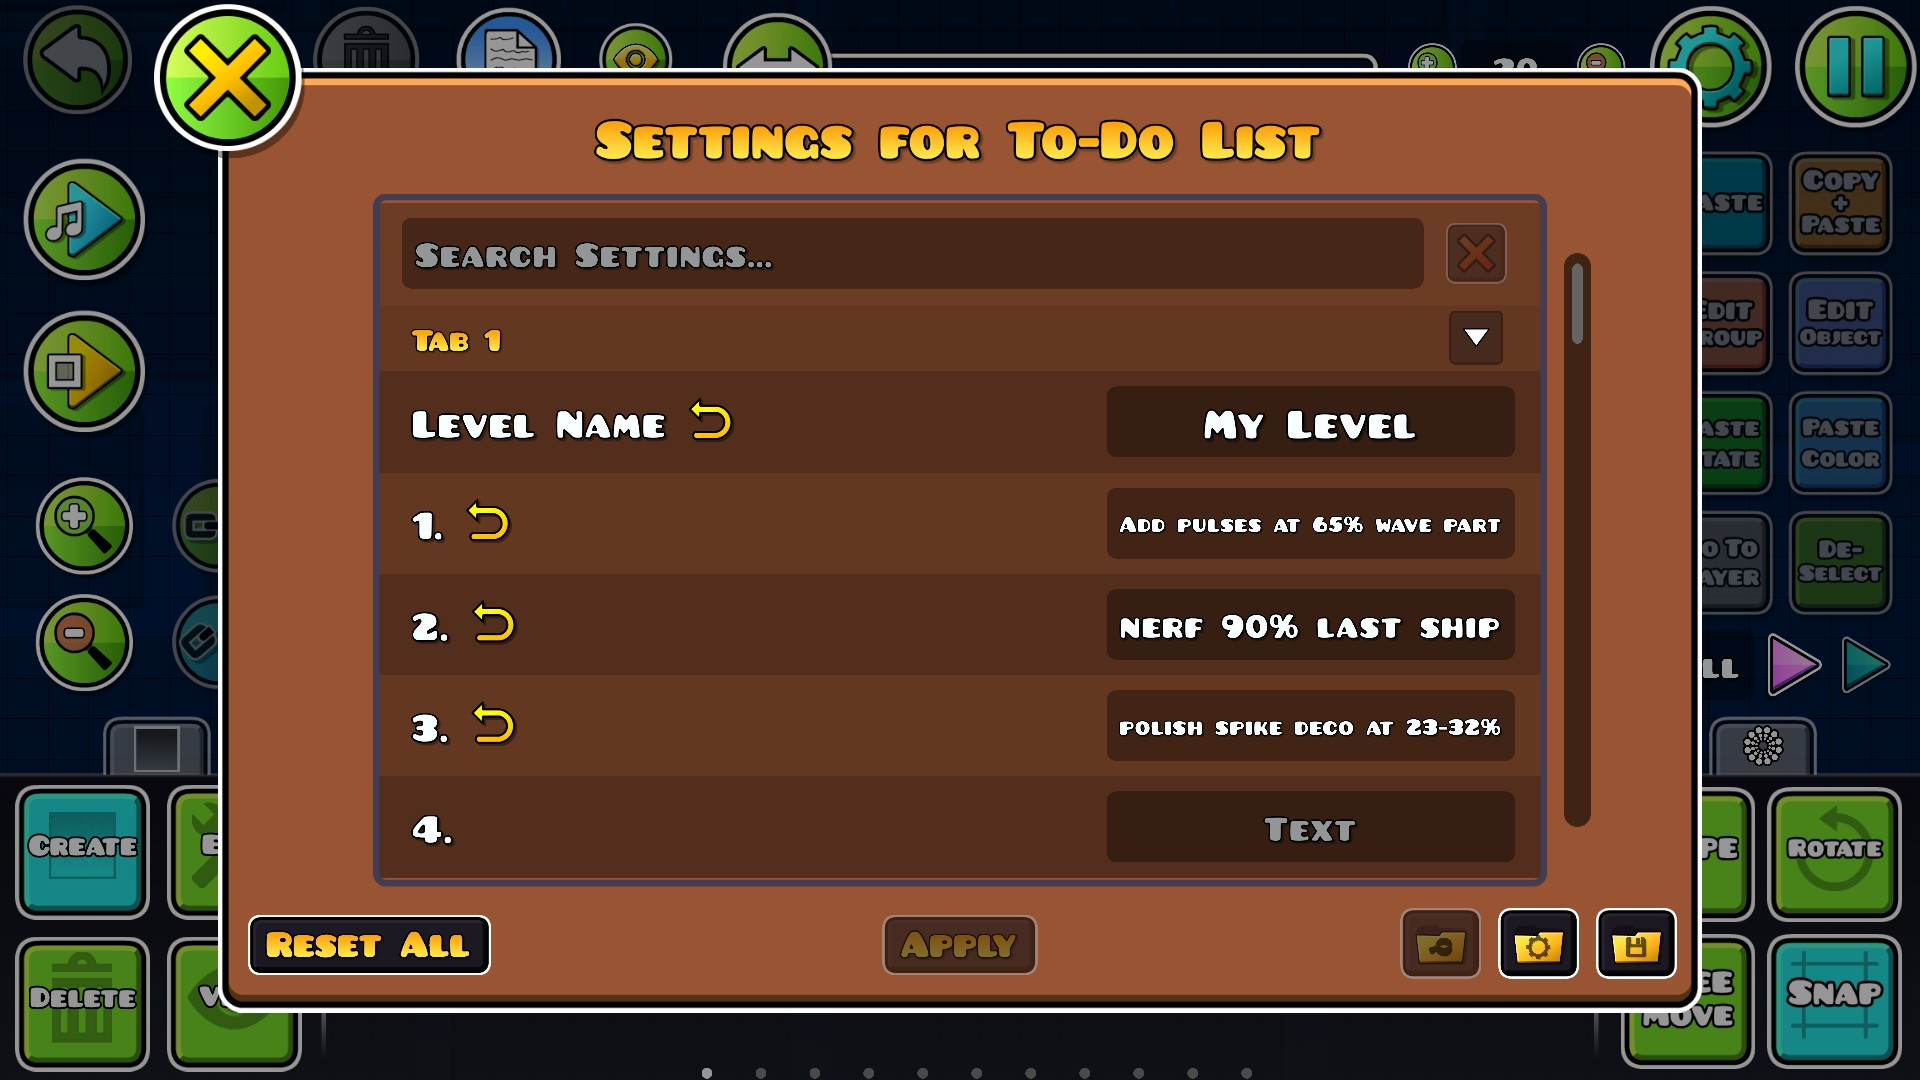
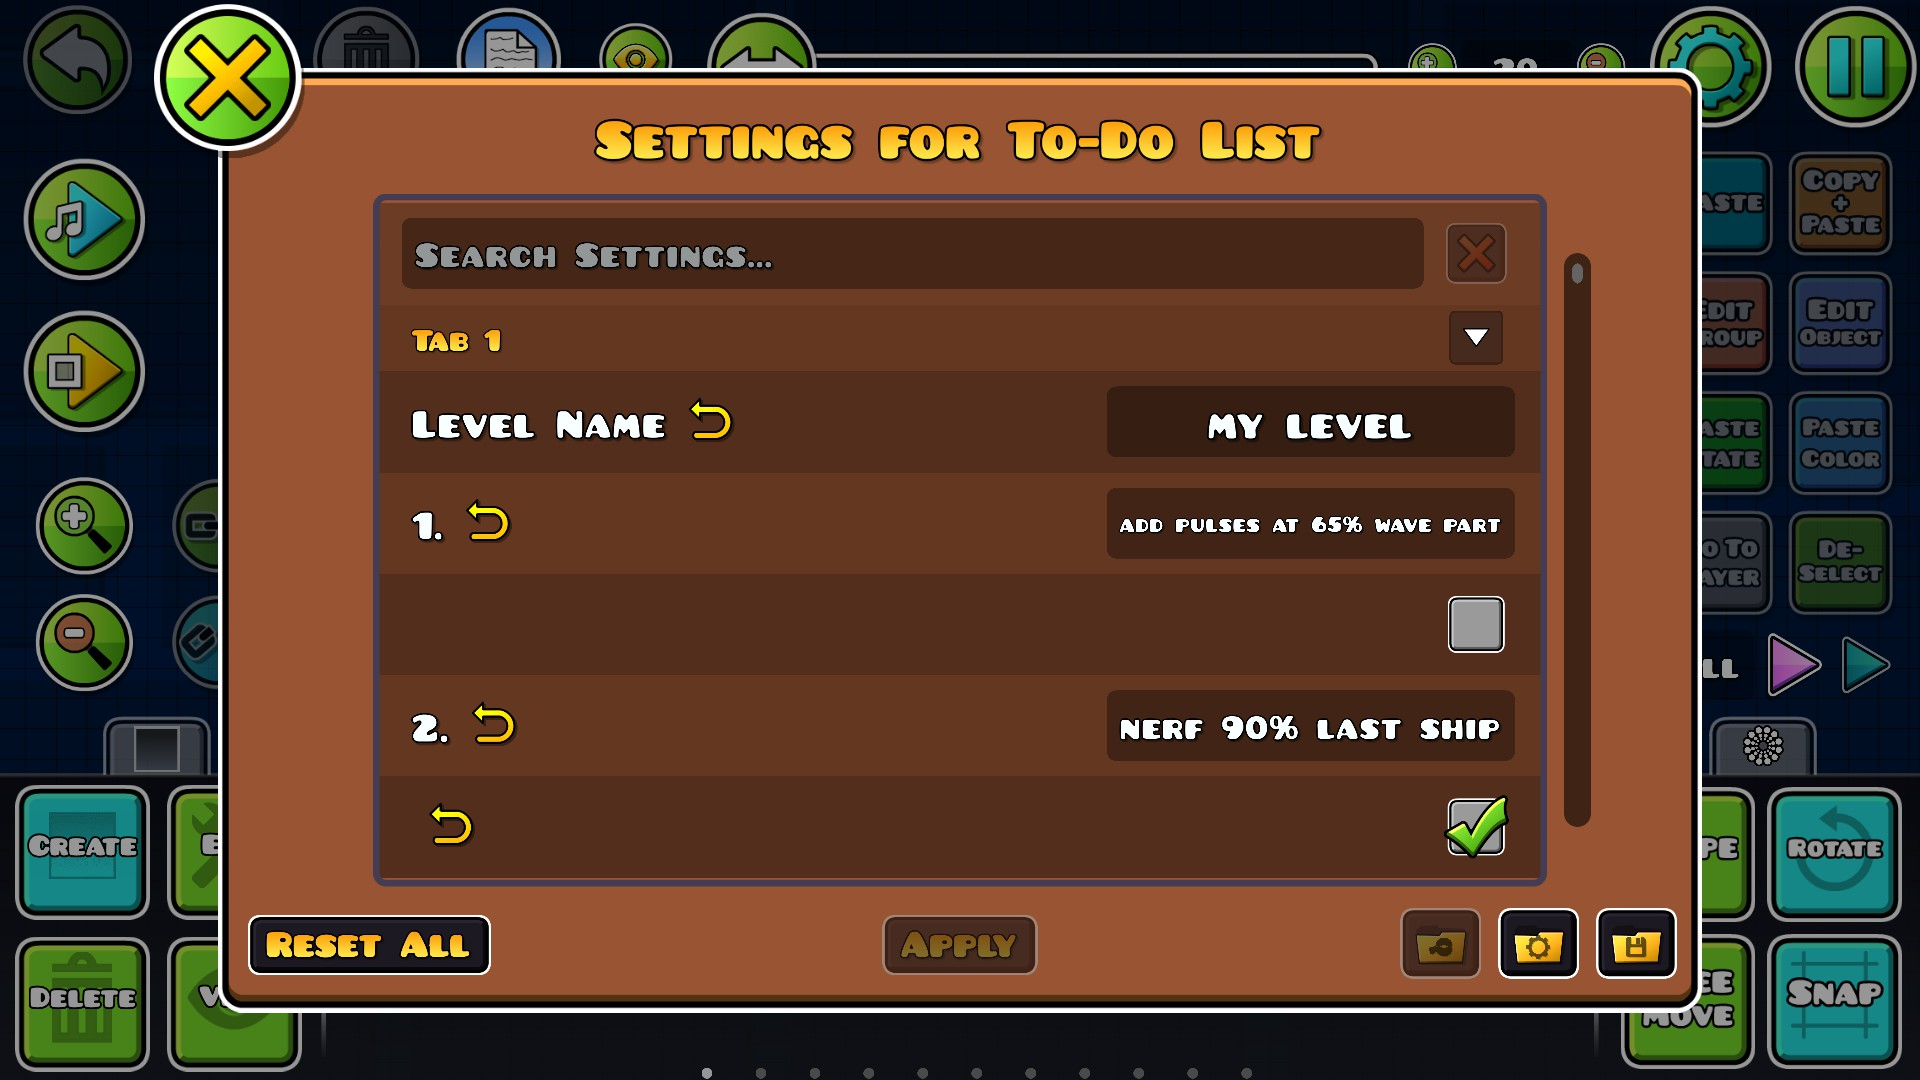
v1.0.1

diff --git a/README.md b/README.md
@@ -1,5 +1,7 @@
 # To-Do List
 
+My first geode mod! Mod by [NinSam](user:20754112)
+
 Adds a button in the editor in the undo-menu tab that adds a To-Do List. 
 
 Now you don't need to place text objects to make a To-Do List! 

diff --git a/about.md b/about.md
@@ -1,6 +1,6 @@
 # To-Do List
 
-My first geode mod!
+My first geode mod! Mod by [NinSam](user:20754112)
 
 Adds a button in the editor in the undo-menu tab that adds a To-Do List. 
 

diff --git a/changelog.md b/changelog.md
@@ -1,3 +1,8 @@
+# 1.0.1
+
+- Added Checkboxes (Suggestion from [Cosmo304](https://github.com/NinSam/To-Do-List/issues/1))
+
+
 # 1.0.0
 
 - Initial Release
